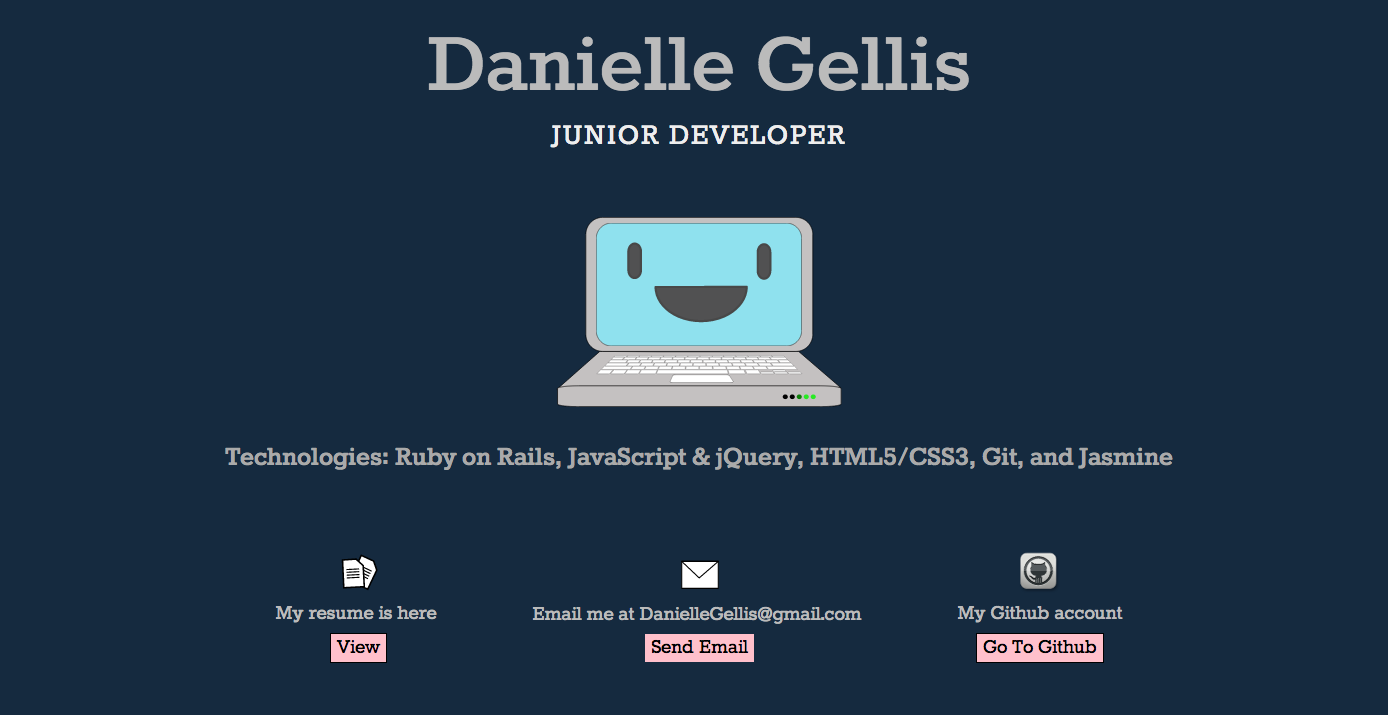
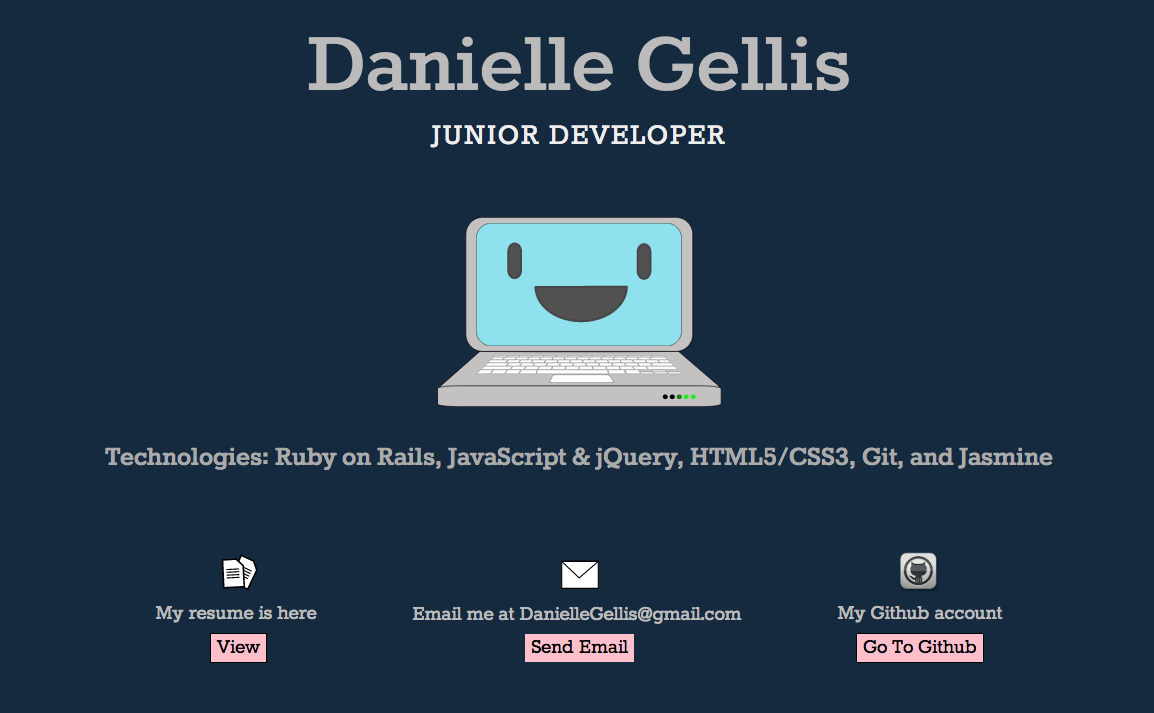
change picture to be more zoomed, get rid of 'web'

diff --git a/index.html b/index.html
@@ -3,7 +3,7 @@
 <html>
   <head>
     	<title>Portfolio for Danielle Gellis</title>
-    	<meta name="description" content="Portfolio and resume site for Danielle Gellis, a Junior Web Developer">
+    	<meta name="description" content="Portfolio and resume site for Danielle Gellis, a Junior Developer">
     	<meta name="viewport" content="width=device-width, initial-scale=1.0">
         <meta property="og:image" content="http://www.daniellegellis.com/DaniPortfolio.png" />
     	
